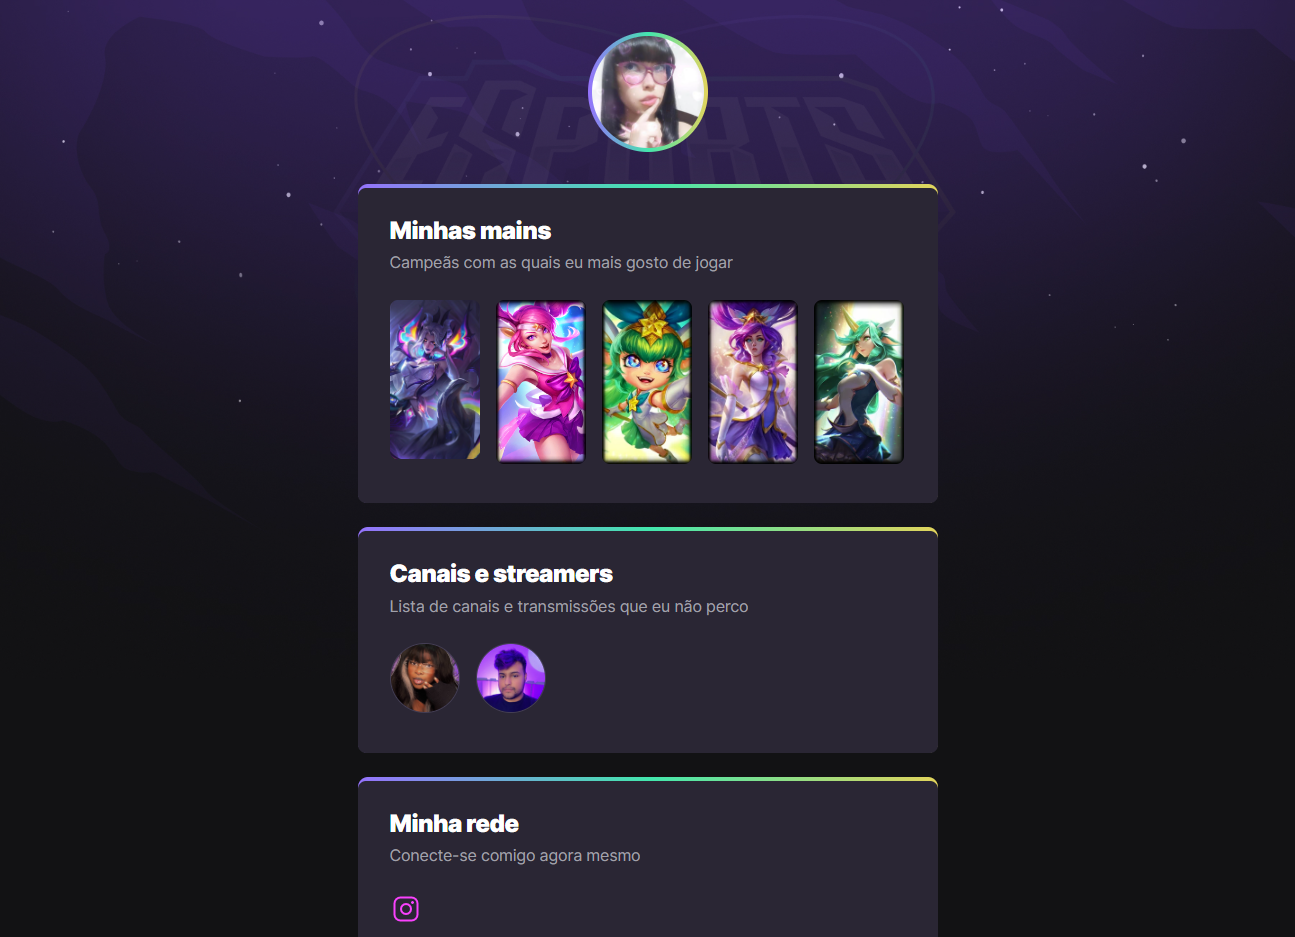
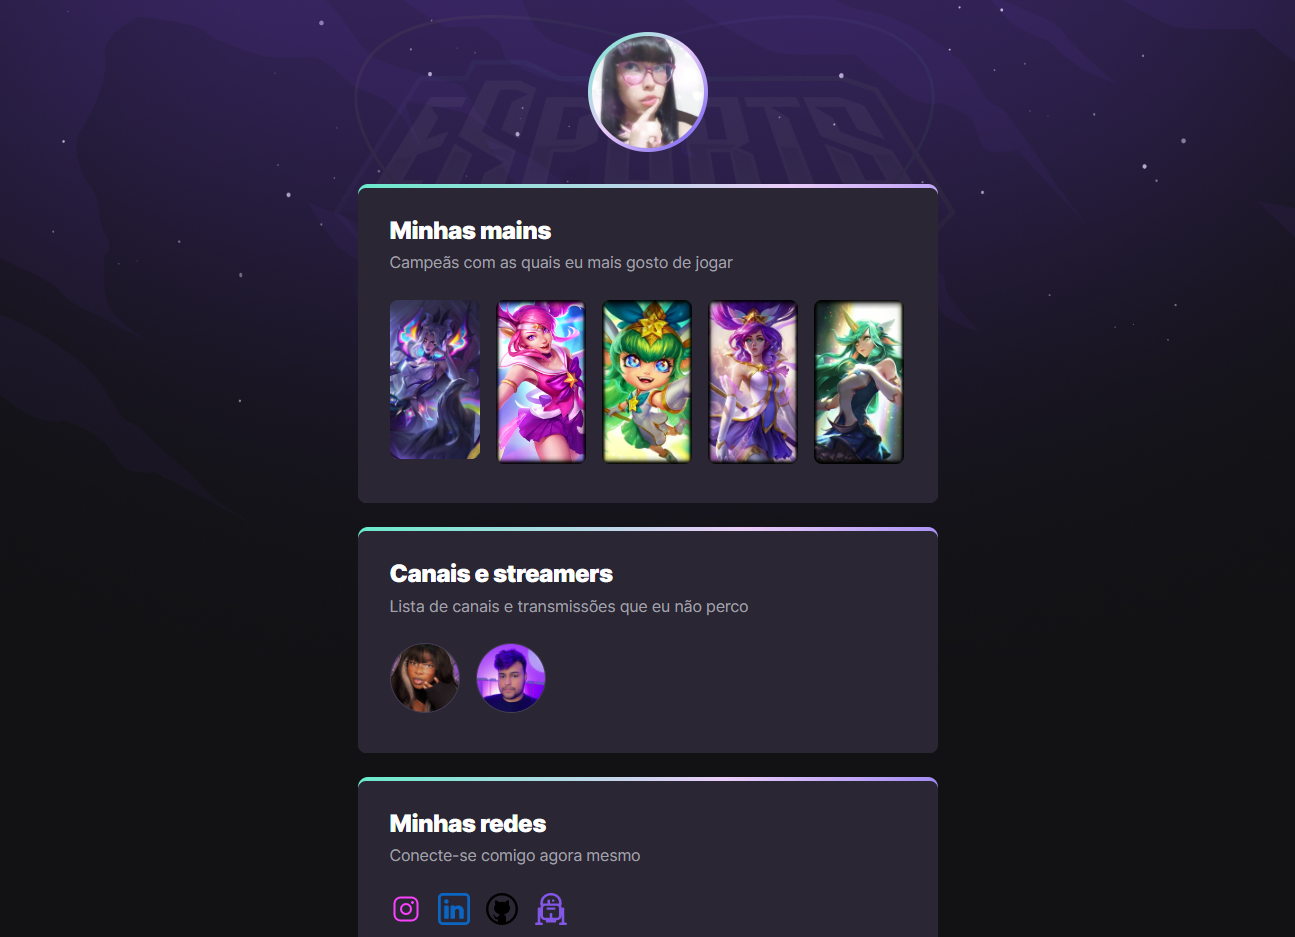
changes in the gradient colors and in the preview

diff --git a/style.css b/style.css
@@ -10,7 +10,7 @@ ul {
 body {
     background-image: url(./assets/bg.jpg);
     background-position: top center;
-    background-size: 100% auto /* 100% refere-se à largura e auto à altura */;
+    background-size: 100% auto;
     background-repeat: no-repeat;
     background-color: #121214;
 }
@@ -28,12 +28,12 @@ header {
 header div {
     width: 120px;
     margin: auto;
-    background-image: linear-gradient(90deg, #9572FC 0%, #43E7AD 50.52%, #E2D45C 100%);
+    background-image: linear-gradient(-225deg, #69EACB 0%, #EACCF8 48%, #6654F1 100%);
     border-radius: 50%;
     display: flex;
 }
 
-header div:hover { /*Quando você usa o hover na div, assim que você passa o mouse sobre a ela, ele aplica as propriedades dentro das chaves*/
+header div:hover {
     transform: scale(1.1)
 }
 
@@ -56,7 +56,7 @@ main {
 
 section {
     color: white;
-    background-image: linear-gradient(90deg, #9572FC 0%, #43E7AD 50.52%, #E2D45C 100%);
+    background-image: linear-gradient(-225deg, #69EACB 0%, #EACCF8 48%, #6654F1 100%);
     padding-top: 4px;
     border-radius: 10px;
 }
@@ -78,7 +78,7 @@ section p {
 }
 section ul {
     display: flex;
-    flex-wrap: wrap /*obriga os elementos a se ajustarem um em cima do outro caso o espaço da caixa acabe*/; 
+    flex-wrap: wrap; 
     gap: 16px;
     margin-top: 24px;
 }
@@ -136,7 +136,7 @@ main section:nth-child(3) {
     }
 }
 
-@keyframes fromBottom { /*@keyframes permite dar um nome para animação, que pode ser o que você preferir. A animação precisa ter, pelo menos, duas propriedades, que são o nome e o tempo, e pode ter uma terceira, que é o delay (mas se for um delay, é importante que você puxe algumas propriedades antes com o backwards)*/
+@keyframes fromBottom { 
     from {
         opacity: 0;
         transform: translateX(-30px)
